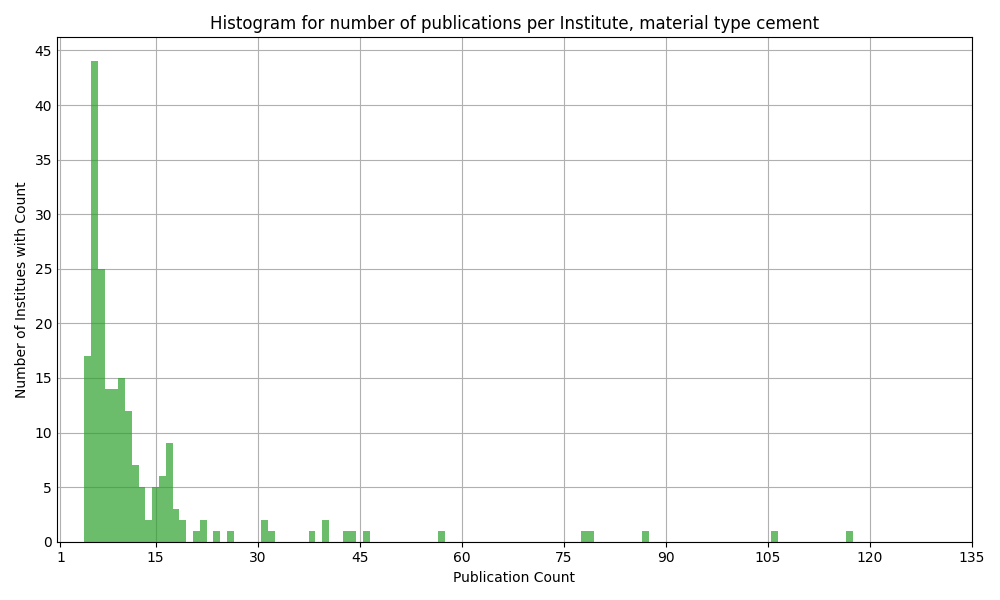
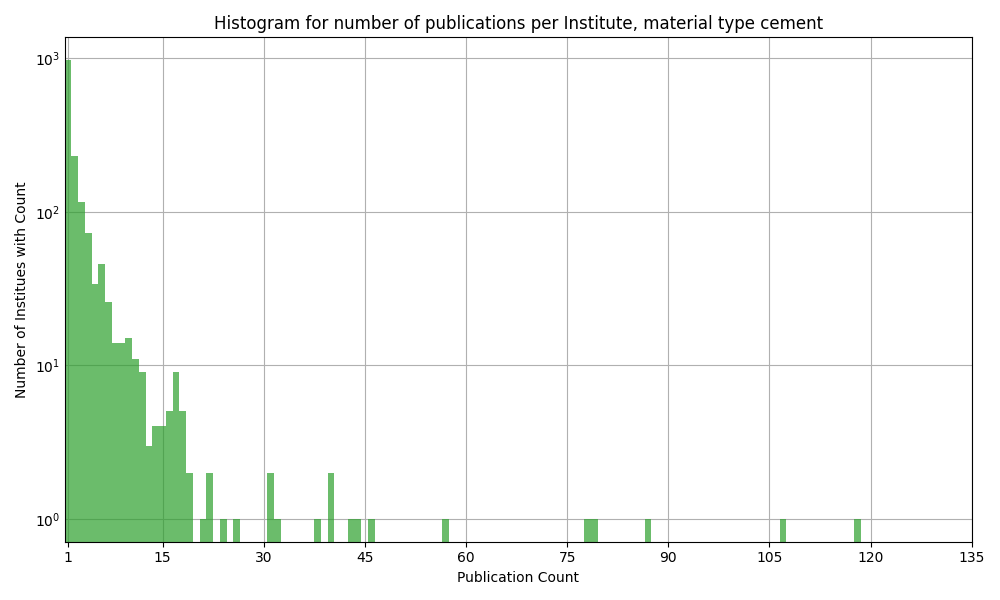
graph fix

diff --git a/graph_new.py b/graph_new.py
@@ -18,6 +18,39 @@ def color_bar_by_label(bars, labels, label_to_color, color="coral"):
         if label == label_to_color:
             bar.set_color(color)
 
+def read_wos_txt(file_path):
+    #  Read the file into a DataFrame
+    df = pd.read_csv(file_path, sep="\t", engine="python", header=0)
+    df.columns = [colname.strip() for colname in df.columns]
+    
+    # Drop the "% of 10,494" column
+    df.drop(columns=df.columns[2], inplace=True)
+
+    # df["Record Count"] = df["Record Count"].fillna(0)
+    # df["Record Count"] = pd.to_numeric(df["Record Count"], errors="coerce")
+    # df["Record Count"] = df["Record Count"].fillna(0)
+    # df = df.astype({"Record Count":'int'})
+
+    # Reset index for ease of processing
+    df.reset_index(drop=True, inplace=True)
+
+    # Identify rows where "Record Count" is empty and handle affiliation merging
+    rows_to_drop = []
+    for i in range(1, len(df)):
+        df.loc[i, "Record Count"] = df.loc[i, "Record Count"].strip()
+        if df.loc[i, "Record Count"] == "":
+            # Append the "Affiliations" of the current row to the previous row
+            df.loc[i - 1, "Affiliations"] += f" {df.loc[i, 'Affiliations']}"
+            rows_to_drop.append(i)
+    
+    # Drop the rows identified earlier
+    df.drop(index=rows_to_drop, inplace=True)
+    df = df.astype({"Record Count":'int'})
+    # Reset the index again
+    df.reset_index(drop=True, inplace=True)
+    df.rename(columns={"Record Count": "Count"}, inplace=True)
+    return df
+
 
 populations_file = os.path.join(dirname, r'data/populations.xlsx')  # data from https://www.census.gov/data-tools/demo/idb/#/table?dashboard_page=country&COUNTRY_YR_ANIM=2025&menu=tableViz, January 2025
 data_populations = pd.read_excel(populations_file, header=1)
@@ -40,7 +73,7 @@ cutoffs_dict_lower = {"cement": 6,
                       "metal": 8}
 
 for materialstring in materialstrings:
-    affiliations_file = os.path.join(dirname, r'data/affiliations_' + materialstring +'_wos.xlsx')  
+    affiliations_file = os.path.join(dirname, r'data/aff_' + materialstring +'.txt') 
     countries_file = os.path.join(dirname, r'data/countries_' + materialstring +'_wos.xlsx')  
     countries_population_plot_path = os.path.join(dirname, r'graphs/countries_population_' + materialstring)  # Replace with your local file path
     affiliations_plot_path = os.path.join(dirname, r'graphs/affiliation_' + materialstring +'')  # Replace with your local file path
@@ -51,7 +84,8 @@ for materialstring in materialstrings:
     butterfly_plot_path = os.path.join(dirname, r'graphs/butterfly_' + materialstring) 
 
     # Load the data into DataFrames
-    data_affiliations = pd.read_excel(affiliations_file)
+    
+    data_affiliations = read_wos_txt(affiliations_file)
     data_countries = pd.read_excel(countries_file)
     uk_country_list = ["SCOTLAND", "NORTH IRELAND", "ENGLAND", "WALES"]
     for country in uk_country_list:
@@ -140,18 +174,18 @@ for materialstring in materialstrings:
     #-------------------------------
     # Plot affiliations bar chart low numbers
     #-------------------------------
-    plt.figure(figsize=(10, 6))
-    plt.barh(data_affiliations_filtered_low['Affiliations'], data_affiliations_filtered_low['Count'])
-    plt.title(f'Affiliations and Their Counts (Excluding Counts above {cutoffs_dict_lower[materialstring]})')
-    plt.ylabel('Affiliations')
-    plt.xlabel('Count')
+    # plt.figure(figsize=(10, 6))
+    # plt.barh(data_affiliations_filtered_low['Affiliations'], data_affiliations_filtered_low['Count'])
+    # plt.title(f'Affiliations and Their Counts (Excluding Counts above {cutoffs_dict_lower[materialstring]})')
+    # plt.ylabel('Affiliations')
+    # plt.xlabel('Count')
 
-    ax = plt.gca()
-    ax.grid(which='major', axis='x', linestyle='-')
-    ax.set_axisbelow(True)
-    plt.tight_layout()
-    plt.savefig(affiliations_low_plot_path)
-    plt.close()
+    # ax = plt.gca()
+    # ax.grid(which='major', axis='x', linestyle='-')
+    # ax.set_axisbelow(True)
+    # plt.tight_layout()
+    # plt.savefig(affiliations_low_plot_path)
+    # plt.close()
 
     #-------------------------------
     # Plot affiliations histogram chart just numbers
@@ -169,6 +203,7 @@ for materialstring in materialstrings:
     ax.xaxis.set_major_locator(MaxNLocator(integer=True))
     ax.tick_params(axis='y', which='major', color='black', width=1.5, length=0)
     ax.tick_params(axis='y', which='minor', color='black', width=1.5, length=0)
+    ax.set_yscale('log')
     current_ticks = ax.get_xticks()
     current_labels = [tick.get_text() for tick in ax.get_xticklabels()]  # Retrieve the current labels
 
@@ -435,8 +470,9 @@ plt.close()
 
 hist_data = []
 for materialstring in materialstrings:
-    affiliations_file = os.path.join(dirname, r'data/affiliations_' + materialstring +'_wos.xlsx')  
-    data_affiliations = pd.read_excel(affiliations_file)
+    affiliations_file = os.path.join(dirname, r'data/aff_' + materialstring +'.txt') 
+    data_affiliations = read_wos_txt(affiliations_file) 
+    # data_affiliations = pd.read_excel(affiliations_file)
     # counts_of_counts = data_affiliations["Count"].value_counts()
     hist_data.append(data_affiliations["Count"])
 #-------------------------------
@@ -456,6 +492,7 @@ ax.yaxis.set_major_locator(MaxNLocator(integer=True))
 ax.xaxis.set_major_locator(MaxNLocator(integer=True))
 ax.tick_params(axis='y', which='major', color='black', width=1.5, length=0)
 ax.tick_params(axis='y', which='minor', color='black', width=1.5, length=0)
+ax.set_yscale('log')
 current_ticks = ax.get_xticks()
 current_labels = [tick.get_text() for tick in ax.get_xticklabels()]  # Retrieve the current labels
 
